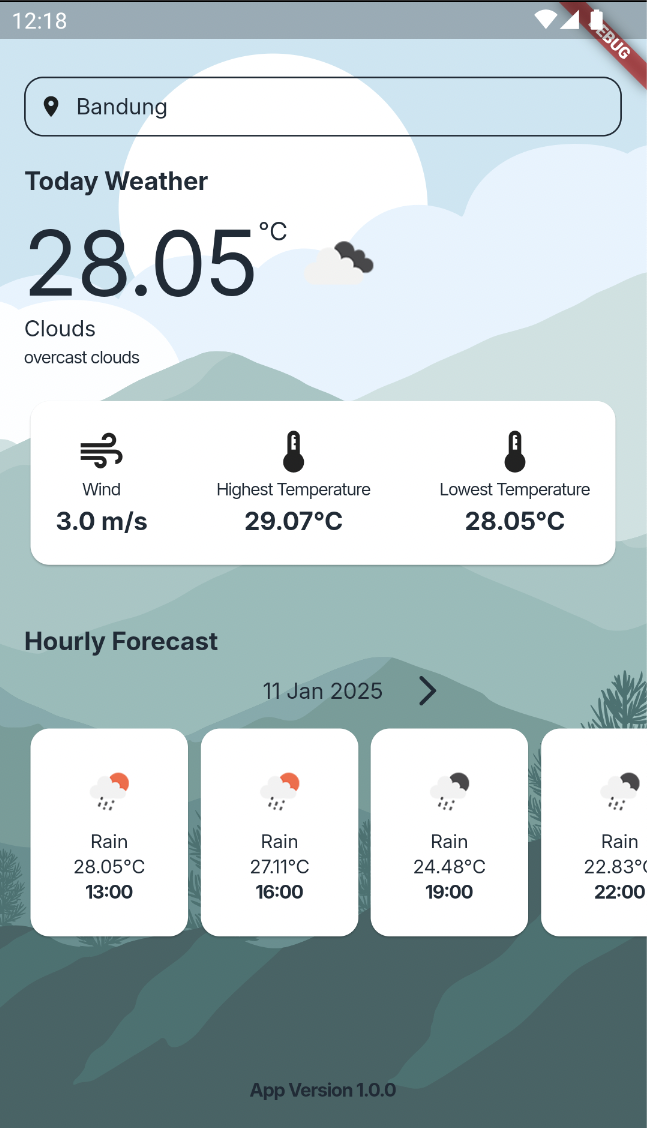
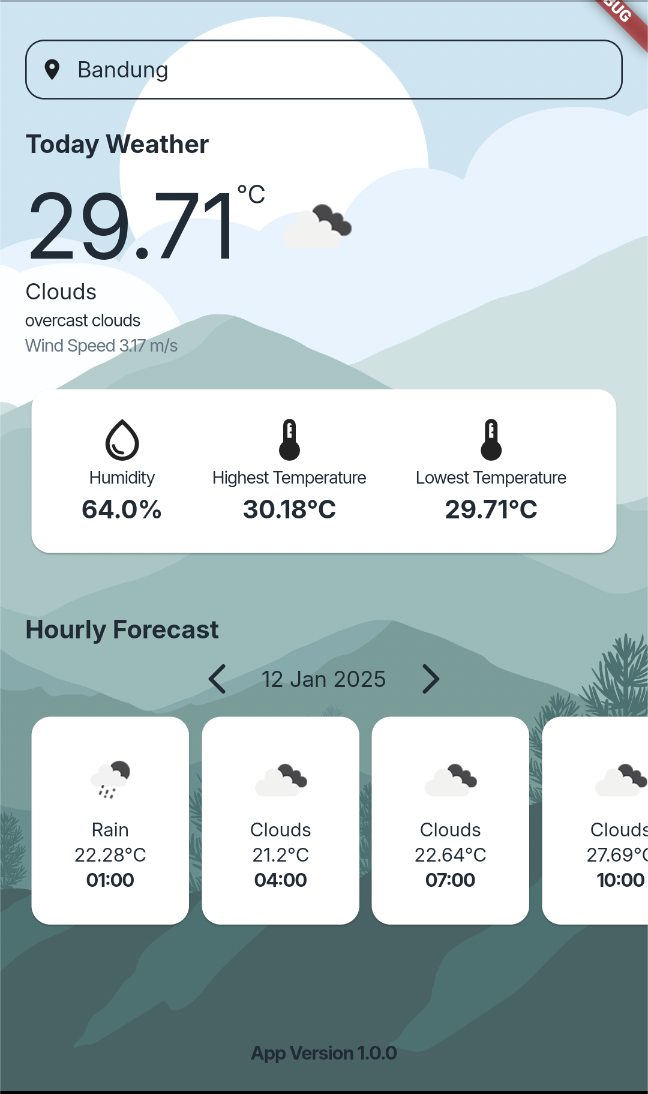
add humidity

diff --git a/lib/presentation/screens/home/component/current_weather_component.dart b/lib/presentation/screens/home/component/current_weather_component.dart
@@ -71,6 +71,10 @@ class CurrentWeatherComponent extends ConsumerWidget {
             data.weather[0].description,
             style: appTextTheme.labelSmall,
           ),
+          Text(
+            '${S.of(context).currentWeatherComponentWindSpeed} ${data.wind.speed} m/s',
+            style: appTextTheme.labelSmall,
+          ),
           const SizedBox(
             height: 16,
           ),
@@ -78,20 +82,20 @@ class CurrentWeatherComponent extends ConsumerWidget {
             child: Container(
               padding: const EdgeInsets.all(16),
               child: Row(
-                mainAxisAlignment: MainAxisAlignment.spaceBetween,
+                mainAxisAlignment: MainAxisAlignment.spaceAround,
                 children: [
                   Column(
                     children: [
                       const Icon(
-                        Icons.air,
+                        Icons.water_drop_outlined,
                         size: 32,
                       ),
                       Text(
-                        S.of(context).wind,
+                        S.of(context).currentWeatherComponentHumidity,
                         style: appTextTheme.labelSmall,
                       ),
                       Text(
-                        '${data.wind.speed} m/s',
+                        '${data.main.humidity}%',
                         style: appTextTheme.titleMedium,
                       ),
                     ],
